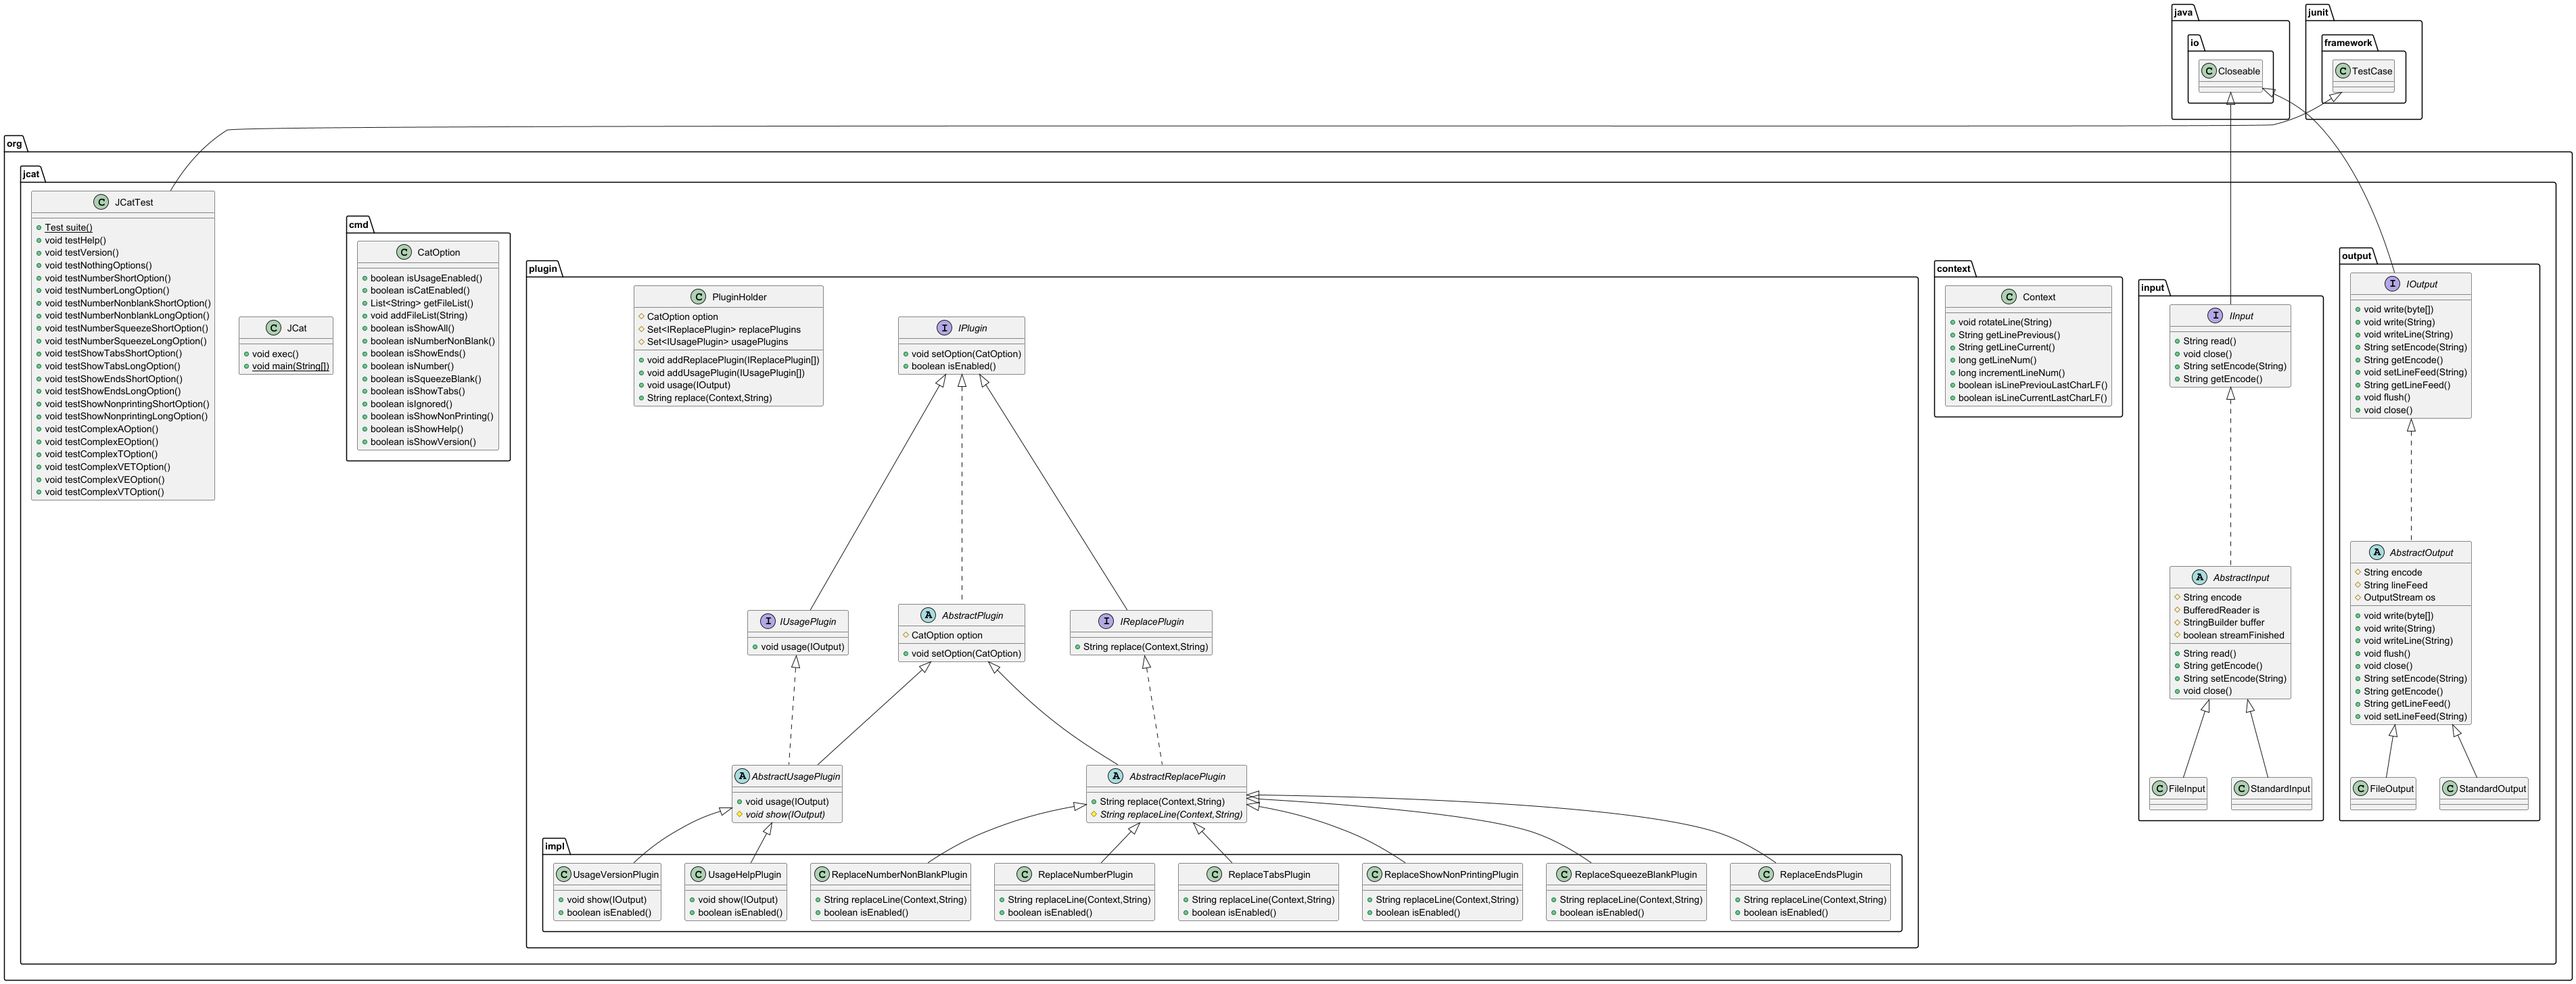
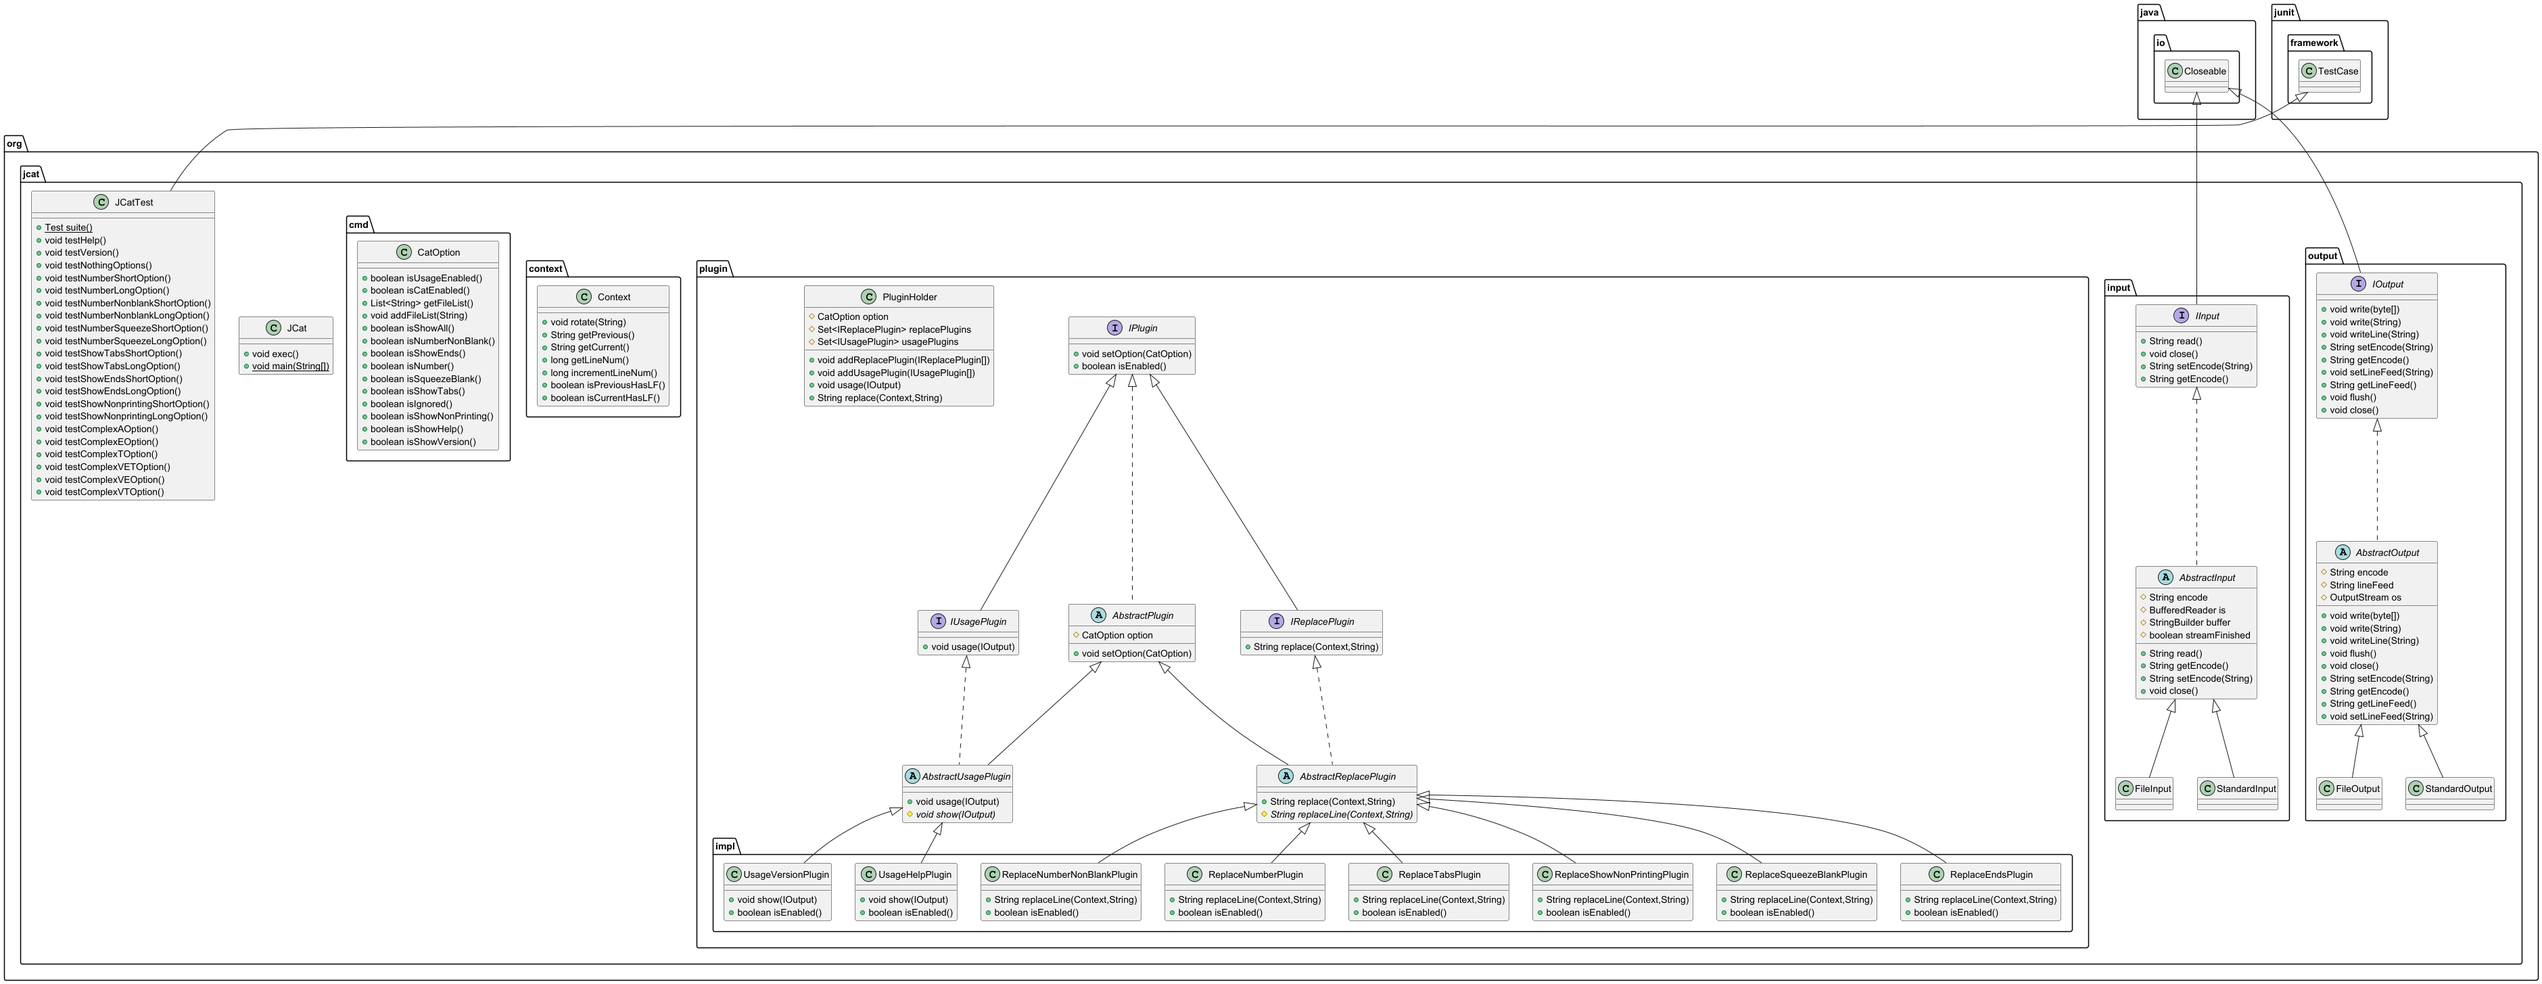
全体を簡素化。

diff --git a/src/main/java/org/jcat/context/Context.java b/src/main/java/org/jcat/context/Context.java
@@ -2,53 +2,51 @@ package org.jcat.context;
 
 public class Context {
 
-	private Long lineNum = 0L;
-	private String lineCurrent = null;
-	private String linePrevious = null;
-	private boolean linePreviousLastCharLF = false;
-	private boolean lineCurrentLastCharLF = true;
+    private Long lineNum = 0L;
+    private String current = null;
+    private String previous = null;
+    private boolean previousHasLF = false;
+    private boolean currentHasLF = true;
 
-	public Context() {
-		linePrevious = null;
-		lineCurrent = null;
-		linePreviousLastCharLF = true;
-		lineCurrentLastCharLF = false;
-	}
+    public Context() {
+        previous = null;
+        current = null;
+        previousHasLF = true;
+        currentHasLF = false;
+    }
 
-	public void rotateLine(String line) {
-		if (lineCurrent == null) {
-			lineCurrent = line;
-		} else {
-			linePrevious = lineCurrent;
-			lineCurrent = line;
-		}
-		linePreviousLastCharLF = lineCurrentLastCharLF;
-		lineCurrentLastCharLF = (lineCurrent.length() > 0 && lineCurrent.charAt(lineCurrent.length() - 1) == '\n')
-				? true
-				: false;
-	}
+    public void rotate(String line) {
+        if (current == null) {
+            current = line;
+        } else {
+            previous = current;
+            current = line;
+        }
+        previousHasLF = currentHasLF;
+        currentHasLF = (current.length() > 0 && current.charAt(current.length() - 1) == '\n') ? true : false;
+    }
 
-	public String getLinePrevious() {
-		return linePrevious;
-	}
+    public String getPrevious() {
+        return previous;
+    }
 
-	public String getLineCurrent() {
-		return lineCurrent;
-	}
+    public String getCurrent() {
+        return current;
+    }
 
-	public long getLineNum() {
-		return lineNum.longValue();
-	}
+    public long getLineNum() {
+        return lineNum.longValue();
+    }
 
-	public long incrementLineNum() {
-		return lineNum = lineNum + 1;
-	}
+    public long incrementLineNum() {
+        return lineNum = lineNum + 1;
+    }
 
-	public boolean isLinePreviouLastCharLF() {
-		return linePreviousLastCharLF;
-	}
+    public boolean isPreviousHasLF() {
+        return previousHasLF;
+    }
 
-	public boolean isLineCurrentLastCharLF() {
-		return lineCurrentLastCharLF;
-	}
+    public boolean isCurrentHasLF() {
+        return currentHasLF;
+    }
 }

diff --git a/src/main/java/org/jcat/JCat.java b/src/main/java/org/jcat/JCat.java
@@ -9,7 +9,6 @@ import org.jcat.input.FileInput;
 import org.jcat.input.IInput;
 import org.jcat.output.FileOutput;
 import org.jcat.output.IOutput;
-import org.jcat.output.StandardOutput;
 import org.jcat.plugin.IReplacePlugin;
 import org.jcat.plugin.IUsagePlugin;
 import org.jcat.plugin.PluginHolder;
@@ -57,22 +56,13 @@ public class JCat {
         this(options);
         this.externalOutput = externalOutput;
     }
-    
 
     public void exec() throws IOException {
         IOutput output = null;
         try {
-            if (externalOutput == null) {
-                output = new StandardOutput("\n");
-            } else {
-                output = new FileOutput(externalOutput, "\n");
-            }
-            if (options.isUsageEnabled()) {
-                usage(output);
-            }
-            if (options.isCatEnabled()) {
-                cat(output);
-            }
+            output = new FileOutput(externalOutput, "\n");
+            usage(output);
+            cat(output);
         } finally {
             output.flush();
             if (externalOutput == null) {
@@ -82,21 +72,27 @@ public class JCat {
     }
 
     private void usage(IOutput output) throws IOException {
+        if (!options.isUsageEnabled()) {
+            return;
+        }
         plugins.usage(output);
     }
 
     private void cat(IOutput output) throws IOException {
-    	Context context = new Context();
+        if (!options.isCatEnabled()) {
+            return;
+        }
+        Context context = new Context();
         for (String path : options.getFileList()) {
             String line;
             try (IInput input = new FileInput(path)) {
                 while ((line = input.read()) != null) {
-                    context.rotateLine(line);
+                    context.rotate(line);
                     line = plugins.replace(context, line);
                     if (line == null) {
-                    	//nullの場合は出力しない（連続空白行など）
-                    	continue;
-                    }  
+                        //nullの場合は出力しない（連続空白行など）
+                        continue;
+                    }
                     output.write(line);
                 }
             }

diff --git a/src/main/java/org/jcat/plugin/PluginHolder.java b/src/main/java/org/jcat/plugin/PluginHolder.java
@@ -52,7 +52,7 @@ public class PluginHolder {
 
     public String replace(Context context, String line) {
     	//改行を含まない部分を対象にReplacePluginによる置き換えを行う
-    	String contents = line.substring(0, context.isLineCurrentLastCharLF() ? line.length() - 1 : line.length());
+    	String contents = line.substring(0, context.isCurrentHasLF() ? line.length() - 1 : line.length());
         for (IReplacePlugin plugin : replacePlugins) {
         	contents = plugin.replace(context, contents);
         }
@@ -61,6 +61,6 @@ public class PluginHolder {
     		return null;
     	}
     	//行末の改行文字を復元して結果を返す
-        return contents + (context.isLineCurrentLastCharLF() ? "\n" : "");
+        return contents + (context.isCurrentHasLF() ? "\n" : "");
     }
 }

diff --git a/src/main/java/org/jcat/output/AbstractOutput.java b/src/main/java/org/jcat/output/AbstractOutput.java
@@ -1,5 +1,6 @@
 package org.jcat.output;
 
+import java.io.BufferedOutputStream;
 import java.io.FileNotFoundException;
 import java.io.IOException;
 import java.io.OutputStream;
@@ -11,9 +12,13 @@ public abstract class AbstractOutput implements IOutput {
     protected OutputStream os;
 
     public AbstractOutput() {
+        this.os = new BufferedOutputStream(System.out);
     }
 
     public AbstractOutput(OutputStream os) throws FileNotFoundException {
+        if (os == null) {
+            os = new BufferedOutputStream(System.out);
+        }
         this.os = os;
     }
 

diff --git a/src/main/java/org/jcat/plugin/impl/ReplaceNumberNonBlankPlugin.java b/src/main/java/org/jcat/plugin/impl/ReplaceNumberNonBlankPlugin.java
@@ -20,7 +20,7 @@ public class ReplaceNumberNonBlankPlugin extends AbstractReplacePlugin {
 		} else if (context.getLineNum() == 0) {
 			//最初の1行目の場合は行番号を出力する
 			;
-		} else if (!context.isLinePreviouLastCharLF()) {
+		} else if (!context.isPreviousHasLF()) {
 			//前回改行が含まれなかったときはまだ行の途中であるため行番号を付加しない
 			return src;
 		}

diff --git a/src/main/java/org/jcat/plugin/impl/ReplaceNumberPlugin.java b/src/main/java/org/jcat/plugin/impl/ReplaceNumberPlugin.java
@@ -17,7 +17,7 @@ public class ReplaceNumberPlugin extends AbstractReplacePlugin {
     	if (context.getLineNum() == 0) {
 			//最初の1行目の場合は行番号を出力する
 			;
-		} else if (!context.isLinePreviouLastCharLF()) {
+		} else if (!context.isPreviousHasLF()) {
 			//前回改行が含まれなかったときはまだ行の途中であるため行番号を付加しない
 			return src;
 		}

diff --git a/src/main/java/org/jcat/plugin/impl/ReplaceSqueezeBlankPlugin.java b/src/main/java/org/jcat/plugin/impl/ReplaceSqueezeBlankPlugin.java
@@ -11,7 +11,7 @@ public class ReplaceSqueezeBlankPlugin extends AbstractReplacePlugin {
 
     @Override
     public String replaceLine(Context context, String src) {
-        if ("\n".equals(context.getLinePrevious()) && "\n".equals(context.getLineCurrent())) {
+        if ("\n".equals(context.getPrevious()) && "\n".equals(context.getCurrent())) {
             return null;
         }
         return src;

diff --git a/src/main/java/org/jcat/plugin/impl/ReplaceEndsPlugin.java b/src/main/java/org/jcat/plugin/impl/ReplaceEndsPlugin.java
@@ -11,7 +11,7 @@ public class ReplaceEndsPlugin extends AbstractReplacePlugin {
 
     @Override
     public String replaceLine(Context context, String src) {
-    	if (!context.isLineCurrentLastCharLF()) {
+    	if (!context.isCurrentHasLF()) {
     		//改行が含まれないときはまだ行の途中であるため行末記号を付加しない
     		return src;
     	}

diff --git a/src/main/java/org/jcat/output/FileOutput.java b/src/main/java/org/jcat/output/FileOutput.java
@@ -7,7 +7,7 @@ import java.io.OutputStream;
 
 public class FileOutput extends AbstractOutput {
 
-    public FileOutput() {
+    public FileOutput() throws FileNotFoundException {
         super();
     }
 
